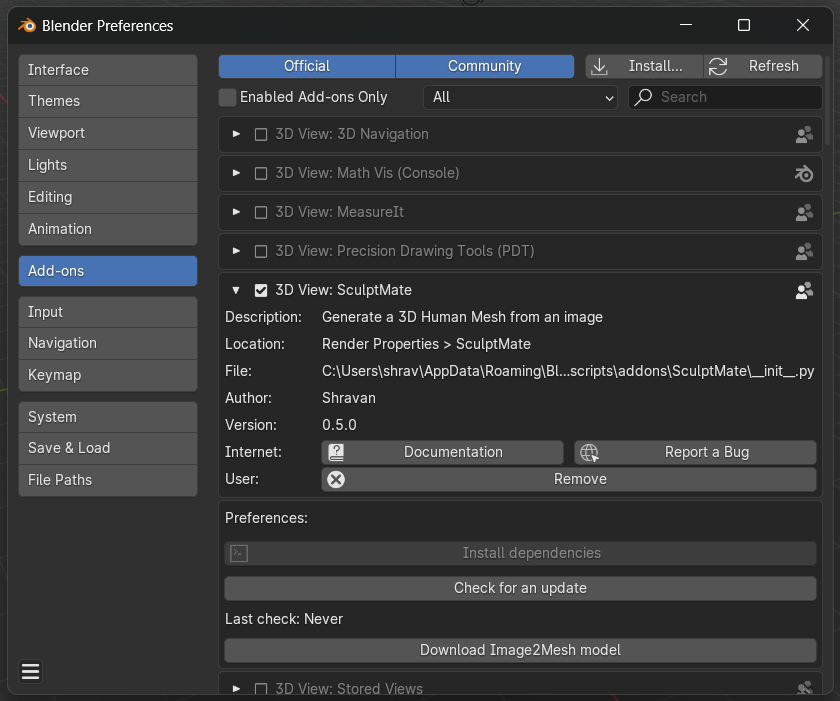
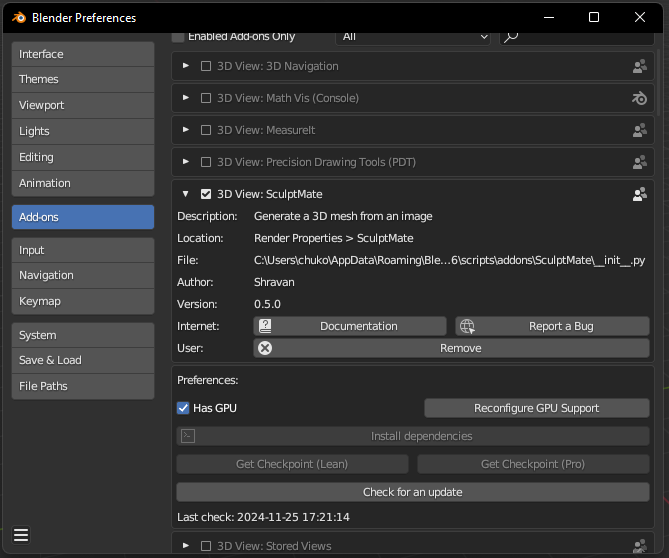
clean up

diff --git a/StableFast/sf3d/system.py b/StableFast/sf3d/system.py
@@ -329,16 +329,13 @@ class SF3D(BaseModule):
             )
         if self.global_estimator is not None and estimate_illumination:
             global_dict.update(self.global_estimator(non_postprocessed_codes))
-        import time
-        t1 = time.time()
+
         with torch.no_grad():
             with torch.autocast(
                 device_type=self.device.type, enabled=False
             ) if "cuda" == self.device.type else nullcontext():
                 meshes = self.triplane_to_meshes(scene_codes)
                 
-                t2 = time.time()
-                print('Generation Time (s):', str(t2 - t1 + 1))
                 rets = []
                 for i, mesh in enumerate(meshes):
                     # Check for empty mesh
@@ -347,22 +344,18 @@ class SF3D(BaseModule):
                         continue
                     
                     if vertex_simplification_factor == 'high':
-                        vertex_count = round(0.5 * mesh.v_pos.shape[0])
+                        vertex_count = round(0.75 * mesh.v_pos.shape[0])
                     elif vertex_simplification_factor == 'med':
-                        vertex_count = round(0.3 * mesh.v_pos.shape[0])
+                        vertex_count = round(0.4 * mesh.v_pos.shape[0])
                     else:
-                        vertex_count = round(0.05 * mesh.v_pos.shape[0])
+                        vertex_count = round(0.1 * mesh.v_pos.shape[0])
 
                     if remesh == "triangle":
                         mesh = mesh.triangle_remesh(triangle_vertex_count=vertex_count)
                     elif remesh == "quad":
                         mesh = mesh.quad_remesh(quad_vertex_count=vertex_count)
 
-                    t3 = time.time()
                     mesh.unwrap_uv()
-                    t4 = time.time()
-                    print('Unwrap Time (s):', str(t4 - t3))
-
                     if enable_texture:
                         # Build textures
                         rast = self.baker.rasterize(
@@ -503,9 +496,6 @@ class SF3D(BaseModule):
                             )
                         else:
                             bump_tex = None
-                        
-                        t5 = time.time()
-                        print('Baking Time (s):', str(t5 - t4))
 
                         verts_np = convert_data(mesh.v_pos)
                         faces = convert_data(mesh.t_pos_idx)

diff --git a/__init__.py b/__init__.py
@@ -193,7 +193,7 @@ class Download_Lean_Model(DataStore, bpy.types.Operator):
 
 class Download_Fast_Model(DataStore, bpy.types.Operator):
     bl_idname = "example.download_checkpoint_fast"
-    bl_label = "Get Checkpoint (Better Geometry)"
+    bl_label = "Get Checkpoint (Pro)"
     bl_description = ("Downloads the required model checkpoints required for generation. "
                       "Internet connection is required. Expected to take ~3 minutes.")
     bl_options = {"REGISTER", "INTERNAL"}
@@ -344,6 +344,8 @@ class TorchReconWorker(threading.Thread):
             self.error_callback()
             return
         self.finish_callback()
+        global dependencies_installed
+        dependencies_installed = True
         self.context.scene.buttons_enabled = True
 
 class InstallationWorker(threading.Thread):

diff --git a/README.md b/README.md
@@ -6,9 +6,9 @@ SculptMate is a Blender add-on that simplifies the process of generating meshes.
 
 ## Features
 
-- Generate meshes of objects and humans from a single image.
+- Generate meshes of objects from a single image.
 - Create background assets with ease allowing you more time to work on the important parts of your render.
-- Automate a major part of the character generation pipeline by obtaining a base human mesh.
+- Get UV unwrapped maps and baked textures.
 
 ## Demo
 
@@ -16,18 +16,21 @@ SculptMate is a Blender add-on that simplifies the process of generating meshes.
 
 ## Installation
 
-1. Download the latest release zip file from the blue button name 'Code' on top of this page.
-2. In Blender, go to `Edit` > `Preferences` > `Add-Ons`.
-3. Click on `Install` and select the downloaded zip file.
-4. Enable the add-on by checking the checkbox next to its name.
-5. Inside the add-on in the preferences, you will have to install the required dependancies. You might have to start Blender with admin privileges for this step, depending on your Blender installation path.
+1. Download the latest release [zip file](https://github.com/shravan-d/SculptMate/archive/refs/tags/v0.5.zip) from the [Releases](https://github.com/shravan-d/SculptMate/releases) page.
+2. You might have to start Blender with admin privileges for this step, depending on your Blender installation path.
+3. In Blender, go to `Edit` > `Preferences` > `Add-Ons`.
+4. Click on `Install` and select the downloaded zip file.
+5. Enable the add-on by checking the checkbox next to its name.
+6. If you have a GPU in your system, check the 'Has GPU' box. This will speed up the generation process.
+7. Install the dependencies. 
+8. Get the the checkpoint files that are required for the generation process. The Pro model requires a GPU to run.
 ![Samples](assets/preferences.png)
 
 ## Usage
 
 1. Open Blender and head to the Render Properties Tab.
 2. Scroll down to find the SculptMate Panel.
-3. If you have the dependencies installed, you can select an image of the character you'd like to generate a mesh of.
+3. If you have the dependencies installed, you can select an image of the object you'd like to generate a mesh of.
 4. Click on Generate.
 
 ## Example Usage
@@ -44,6 +47,10 @@ This project utilizes the following third-party libraries:
 
 - **Library:** [TripoSR - A state-of-the-art open-source model for fast feedforward 3D reconstruction.](https://stability.ai/news/triposr-3d-generation)
    - **Author:** Tripo AI and Stability AI
+   - **Year:** 2024
+
+- **Library:** [Stable Fast 3D: Rapid 3D Asset Generation From Single Images.](https://stability.ai/news/introducing-stable-fast-3d)
+   - **Author:** Stability AI
    - **Year:** 2024
 
 # Troubleshooting
